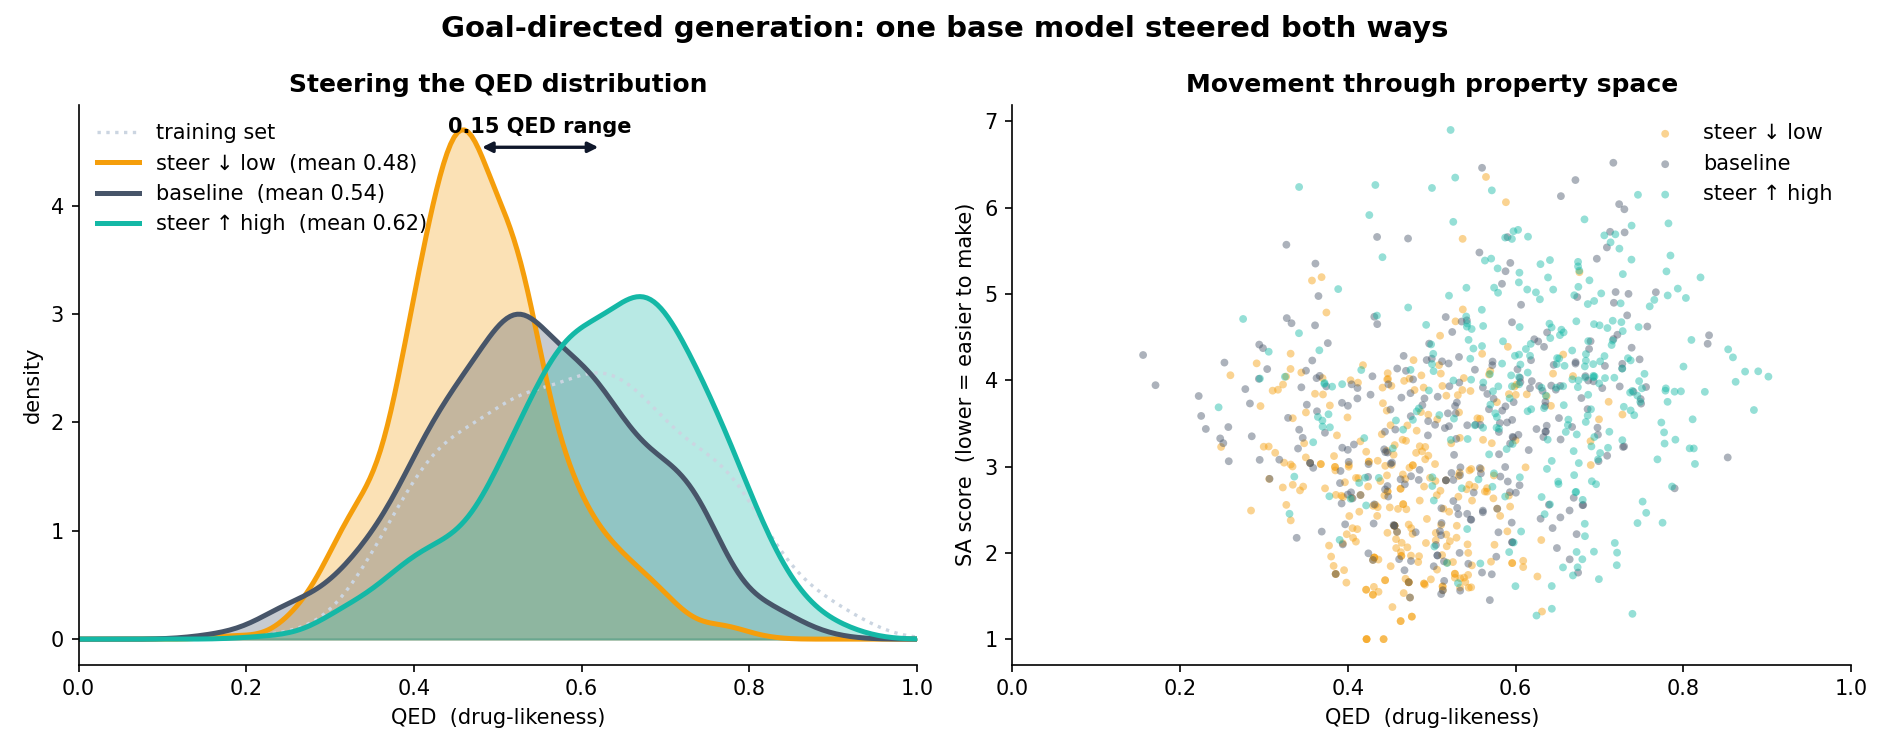
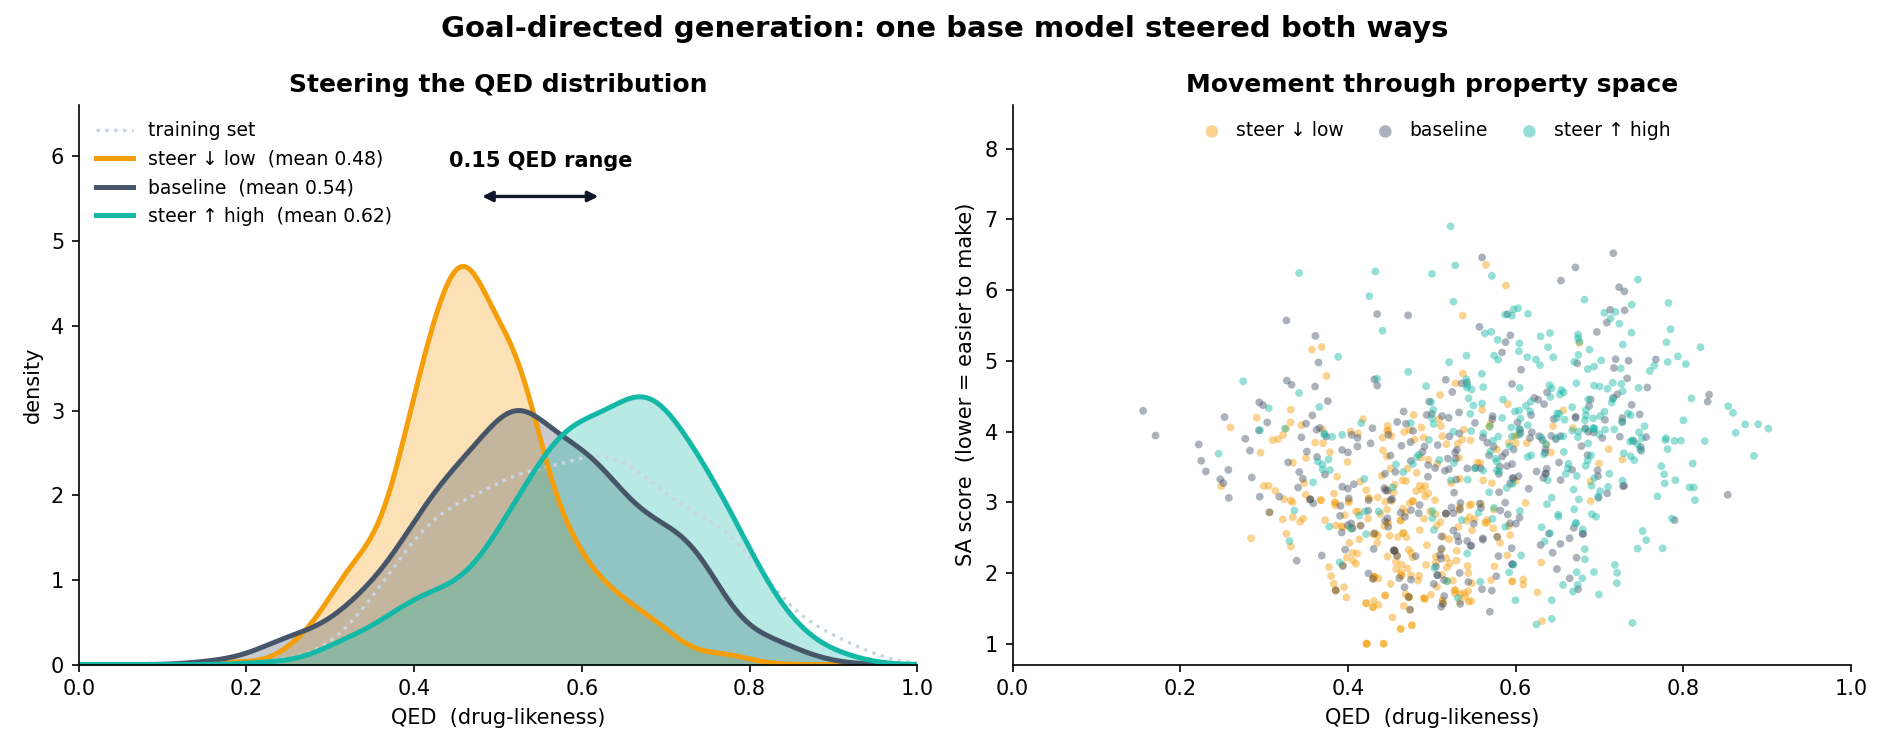
Fix layout of the goal-directed generation figure
Two readability fixes in controlled_generation.png: add headroom above the QED
curves in panel A so the "0.15 QED range" marker no longer overlaps them, and
move panel B's legend into a horizontal bar in headroom above the scatter so
its sample markers don't blend into the data points.

diff --git a/scripts/make_figures.py b/scripts/make_figures.py
@@ -96,21 +96,27 @@ def _controlled_figure(
         ax_a.fill_between(xs, density, color=color, alpha=0.30)
         ax_a.plot(xs, density, color=color, lw=2.4, label=f"{label}  (mean {q.mean():.2f})")
     lo_m, hi_m = series[SERIES[0][0]][0].mean(), series[SERIES[2][0]][0].mean()
-    y = ax_a.get_ylim()[1] * 0.92
+    ymax = ax_a.get_ylim()[1]
+    ax_a.set_ylim(0, ymax * 1.34)  # headroom so the range marker clears the curves
+    y_arrow = ymax * 1.12
     ax_a.annotate(
         "",
-        xy=(hi_m, y),
-        xytext=(lo_m, y),
+        xy=(hi_m, y_arrow),
+        xytext=(lo_m, y_arrow),
         arrowprops=dict(arrowstyle="<|-|>", color="#0f172a", lw=1.6),
     )
     ax_a.text(
-        (lo_m + hi_m) / 2, y * 1.03, f"{hi_m - lo_m:.2f} QED range", ha="center", fontweight="bold"
+        (lo_m + hi_m) / 2,
+        ymax * 1.19,
+        f"{hi_m - lo_m:.2f} QED range",
+        ha="center",
+        fontweight="bold",
     )
     ax_a.set_xlim(0, 1)
     ax_a.set_xlabel("QED  (drug-likeness)")
     ax_a.set_ylabel("density")
     ax_a.set_title("Steering the QED distribution", fontweight="bold")
-    ax_a.legend(frameon=False, loc="upper left")
+    ax_a.legend(frameon=False, loc="upper left", fontsize=9)
 
     # Panel B: the same samples in QED-vs-SA property space.
     for label, color in SERIES:
@@ -119,10 +125,21 @@ def _controlled_figure(
             q[:300], sa[:300], s=14, color=color, alpha=0.45, edgecolors="none", label=label
         )
     ax_b.set_xlim(0, 1)
+    ymin_b, ymax_b = ax_b.get_ylim()
+    ax_b.set_ylim(ymin_b, ymax_b + (ymax_b - ymin_b) * 0.22)  # headroom for the legend
     ax_b.set_xlabel("QED  (drug-likeness)")
     ax_b.set_ylabel("SA score  (lower = easier to make)")
     ax_b.set_title("Movement through property space", fontweight="bold")
-    ax_b.legend(frameon=False, loc="upper right")
+    # Horizontal legend in the headroom band, clear of the scattered points.
+    ax_b.legend(
+        loc="upper center",
+        ncol=3,
+        frameon=False,
+        fontsize=9,
+        handletextpad=0.3,
+        columnspacing=1.2,
+        markerscale=1.6,
+    )
 
     fig.suptitle(
         "Goal-directed generation: one base model steered both ways", fontweight="bold", fontsize=14